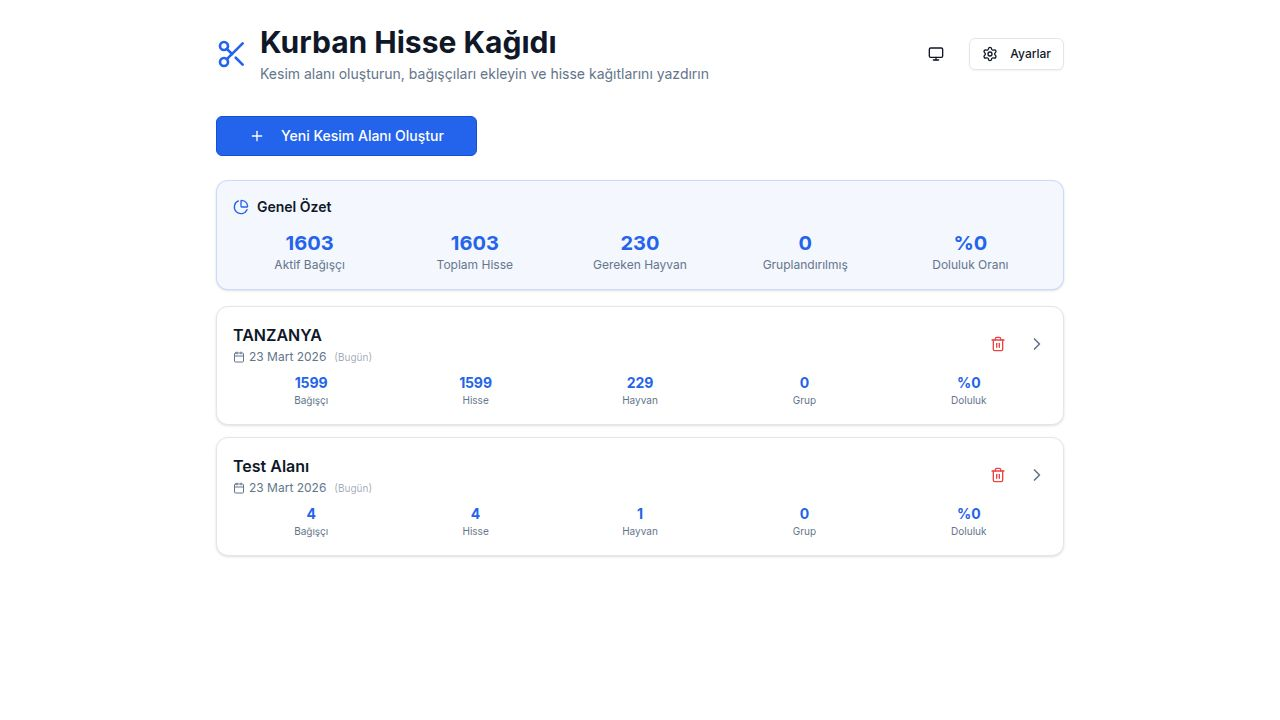
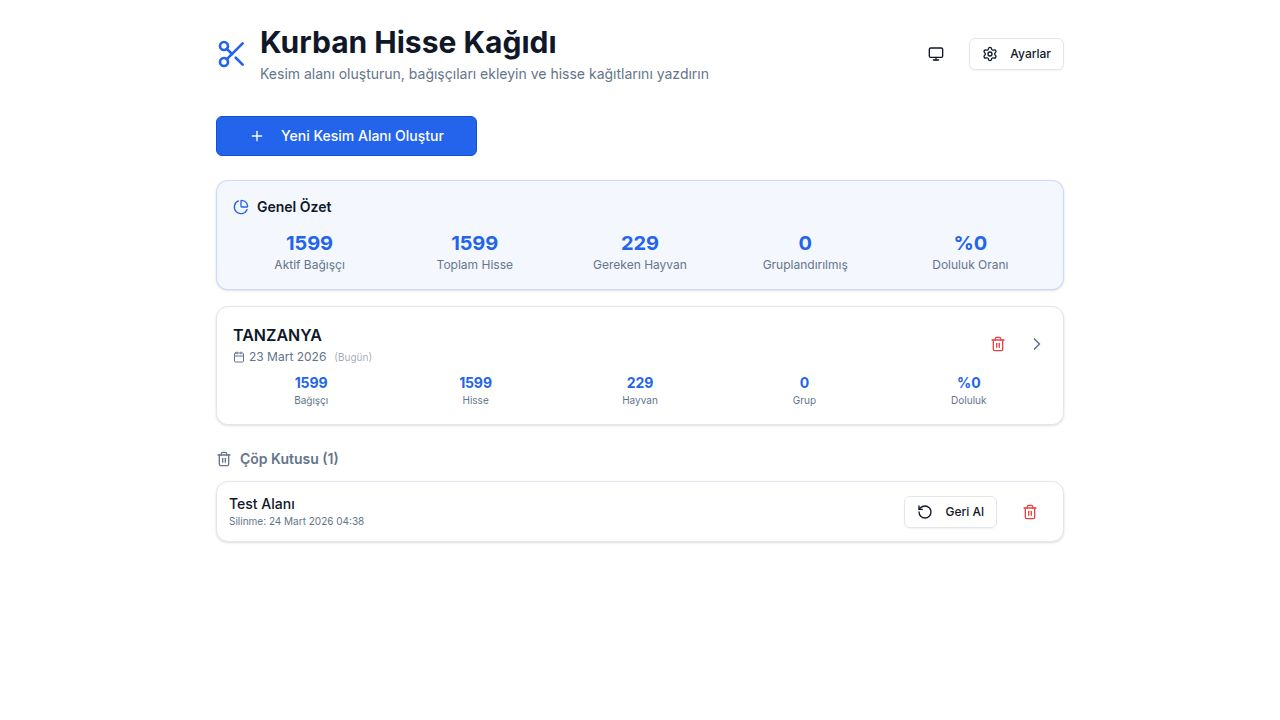
Task #19: Move auto-group button to top and add trash bin to home page
Two UI improvements for the Kurban Hisse Kağıdı app:

1. Auto-group button moved to top (kesim-alani.tsx):
   - Removed from bottom of donor list (after table, hard to reach)
   - Placed after statistics cards and share distribution panel,
     right above the donor list and animal groups split pane
   - Now visible without scrolling, much more accessible
   - Added !fullscreenMode guard to hide in fullscreen mode

2. Trash bin section on home page (home.tsx):
   - Removed "Silinen Kesim Alanları" section from Settings dialog
   - Added "Çöp Kutusu" section on main page below kesim alanı cards
   - Deleted items now load automatically on page init (no manual button)
   - Shows only when there are deleted items (hidden when empty)
   - Each item shows name, deletion timestamp, restore and permanent
     delete buttons
   - Removed showDeleted state (no longer needed, always visible)
   - loadDeletedItems() called in init alongside other data fetches

diff --git a/artifacts/hisse-kagidi/src/pages/home.tsx b/artifacts/hisse-kagidi/src/pages/home.tsx
@@ -49,7 +49,6 @@ export default function Home() {
   const [, setLocation] = useLocation();
   const [kesimAlanlari, setKesimAlanlari] = useState<KesimAlani[]>([]);
   const [deletedKesimAlanlari, setDeletedKesimAlanlari] = useState<KesimAlani[]>([]);
-  const [showDeleted, setShowDeleted] = useState(false);
   const [newName, setNewName] = useState("");
   const [dialogOpen, setDialogOpen] = useState(false);
   const [settingsOpen, setSettingsOpen] = useState(false);
@@ -87,6 +86,10 @@ export default function Home() {
         setKesimAlanlari(ka);
         setGlobalTags(tags);
         setLogoPreview(logo);
+        try {
+          const deleted = await fetchDeletedKesimAlanlari();
+          setDeletedKesimAlanlari(deleted);
+        } catch {}
       } catch (err) {
         toast({
           title: "Veri yüklenemedi",
@@ -104,7 +107,6 @@ export default function Home() {
     try {
       const deleted = await fetchDeletedKesimAlanlari();
       setDeletedKesimAlanlari(deleted);
-      setShowDeleted(true);
     } catch (err) {
       toast({
         title: "Silinen öğeler yüklenemedi",
@@ -653,46 +655,6 @@ export default function Home() {
                   </div>
                 </div>
 
-                <div className="border-t pt-4">
-                  <label className="text-sm font-medium mb-2 block">
-                    <Trash2 className="w-4 h-4 inline mr-1" />
-                    Silinen Kesim Alanları
-                  </label>
-                  <p className="text-xs text-muted-foreground mb-3">
-                    Silinen kesim alanlarını görüntüleyin ve geri yükleyin.
-                  </p>
-                  <Button variant="outline" size="sm" className="w-full" onClick={loadDeletedItems}>
-                    <RotateCcw className="w-4 h-4 mr-1" />
-                    Silinenleri Göster ({deletedKesimAlanlari.length})
-                  </Button>
-
-                  {showDeleted && deletedKesimAlanlari.length > 0 && (
-                    <div className="mt-3 space-y-2">
-                      {deletedKesimAlanlari.map(k => (
-                        <div key={k.id} className="flex items-center gap-2 p-2 bg-muted/50 rounded-lg">
-                          <div className="flex-1 min-w-0">
-                            <p className="text-sm font-medium truncate">{k.name}</p>
-                            <p className="text-[10px] text-muted-foreground">
-                              Silinme: {k.deletedAt ? formatDateTime(k.deletedAt) : "—"}
-                            </p>
-                          </div>
-                          <Button variant="outline" size="sm" className="h-7 text-xs" onClick={() => handleRestore(k.id)}>
-                            <RotateCcw className="w-3 h-3 mr-1" />
-                            Geri Al
-                          </Button>
-                          <Button variant="ghost" size="sm" className="h-7 text-xs text-destructive" onClick={() => requestPermanentDelete(k.id)}>
-                            <Trash2 className="w-3 h-3" />
-                          </Button>
-                        </div>
-                      ))}
-                    </div>
-                  )}
-                  {showDeleted && deletedKesimAlanlari.length === 0 && (
-                    <p className="mt-3 text-xs text-muted-foreground text-center py-2">
-                      Silinen kesim alanı bulunmuyor.
-                    </p>
-                  )}
-                </div>
               </div>
             </DialogContent>
           </Dialog>
@@ -916,6 +878,36 @@ export default function Home() {
               })}
             </div>
           </>
+        )}
+
+        {deletedKesimAlanlari.length > 0 && (
+          <div className="mt-6">
+            <h3 className="text-sm font-semibold text-muted-foreground flex items-center gap-2 mb-3">
+              <Trash2 className="w-4 h-4" />
+              Çöp Kutusu ({deletedKesimAlanlari.length})
+            </h3>
+            <div className="space-y-2">
+              {deletedKesimAlanlari.map(k => (
+                <Card key={k.id} className="p-3">
+                  <div className="flex items-center gap-3">
+                    <div className="flex-1 min-w-0">
+                      <p className="text-sm font-medium truncate">{k.name}</p>
+                      <p className="text-[10px] text-muted-foreground">
+                        Silinme: {k.deletedAt ? formatDateTime(k.deletedAt) : "—"}
+                      </p>
+                    </div>
+                    <Button variant="outline" size="sm" className="h-7 text-xs" onClick={() => handleRestore(k.id)}>
+                      <RotateCcw className="w-3 h-3 mr-1" />
+                      Geri Al
+                    </Button>
+                    <Button variant="ghost" size="sm" className="h-7 text-xs text-destructive" onClick={() => requestPermanentDelete(k.id)}>
+                      <Trash2 className="w-3 h-3" />
+                    </Button>
+                  </div>
+                </Card>
+              ))}
+            </div>
+          </div>
         )}
       </div>
 

diff --git a/artifacts/hisse-kagidi/src/pages/kesim-alani.tsx b/artifacts/hisse-kagidi/src/pages/kesim-alani.tsx
@@ -2565,7 +2565,25 @@ export default function KesimAlaniPage() {
         </div>
         )}
 
-        
+        {!fullscreenMode && kesim.donations.length > 0 && (
+          <div className="mb-4 flex gap-2">
+            <Button onClick={handleAutoGroup} className="flex-1" disabled={groupingInProgress}>
+              {groupingInProgress ? (
+                <>
+                  <Loader2 className="w-4 h-4 mr-2 animate-spin" />
+                  {groupingProgress
+                    ? `Gruplama: ${groupingProgress.current}/${groupingProgress.total} hayvan`
+                    : "Gruplama başlıyor..."}
+                </>
+              ) : (
+                <>
+                  <Wand2 className="w-4 h-4 mr-2" />
+                  Otomatik Grupla ({requiredAnimals} Hayvan)
+                </>
+              )}
+            </Button>
+          </div>
+        )}
 
         {historyPanelOpen && !fullscreenMode && (
           <Card className="mb-4 p-3 max-h-64 overflow-y-auto">
@@ -3417,25 +3435,6 @@ export default function KesimAlaniPage() {
               </div>
             </Card>
 
-            {kesim.donations.length > 0 && (
-              <div className="mt-4 flex gap-2">
-                <Button onClick={handleAutoGroup} className="flex-1" disabled={groupingInProgress}>
-                  {groupingInProgress ? (
-                    <>
-                      <Loader2 className="w-4 h-4 mr-2 animate-spin" />
-                      {groupingProgress
-                        ? `Gruplama: ${groupingProgress.current}/${groupingProgress.total} hayvan`
-                        : "Gruplama başlıyor..."}
-                    </>
-                  ) : (
-                    <>
-                      <Wand2 className="w-4 h-4 mr-2" />
-                      Otomatik Grupla ({requiredAnimals} Hayvan)
-                    </>
-                  )}
-                </Button>
-              </div>
-            )}
           </div>}
 
           {donorListVisible && !fullscreenMode && (